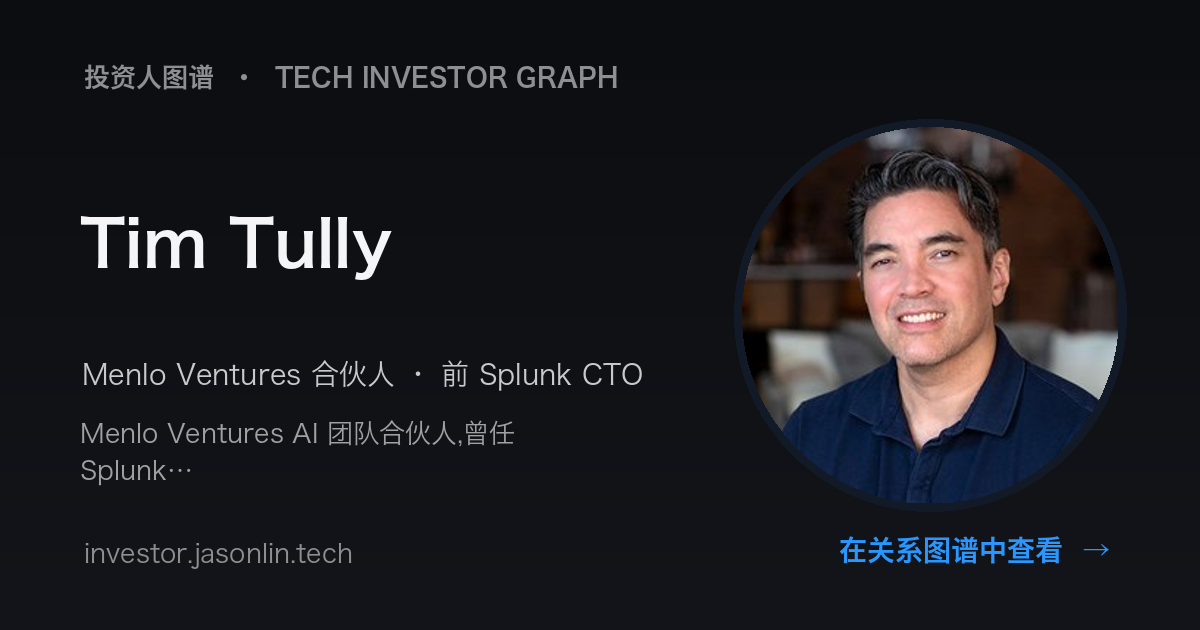
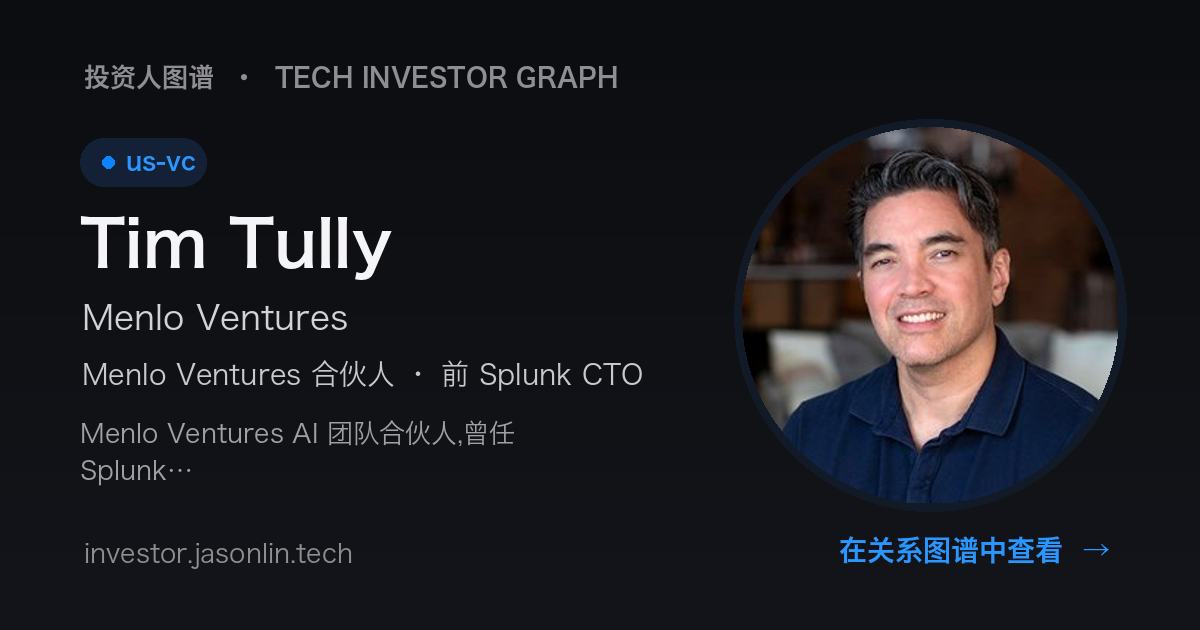
chore: insights-widget v=59;重刷 4 张 org 漏读的分享页
Claude-Session: https://claude.ai/code/session_01J8uaPH9eMgzrHih7Y7Prm5

Changed region(s): [[0.0617, 0.4825, 0.3083, 0.5429], [0.0617, 0.2111, 0.185, 0.3016]]

diff --git a/p/venkyganesan.html b/p/venkyganesan.html
@@ -5,28 +5,28 @@
    深色页面顶上留一条白边(2026-08-15 实测) */
 :root{color-scheme:dark}html{background:#000}</style>
 <script>try{document.documentElement.className=(localStorage.getItem('graphLang')==='en')?'lang-en':'lang-zh'}catch(e){document.documentElement.className='lang-zh'}</script>
-<title>Venky Ganesan ·  | 投资人图谱</title>
+<title>Venky Ganesan · Menlo Ventures | 投资人图谱</title>
 <meta name="description" content="Menlo Ventures 合伙人。Menlo 累计投入 Anthropic 的 10 亿美元,在这家实验室估值逼近 1 万亿之际已值约 140 亿——可以说是本轮 AI 周期最成功的单笔风险投资持仓。2026 年 6 月 Menlo 募集 30 亿美元(Fund XVII + Inflectio…">
 <link rel="canonical" href="https://investor.jasonlin.tech/p/venkyganesan.html">
 <meta property="og:type" content="profile"><meta property="og:url" content="https://investor.jasonlin.tech/p/venkyganesan.html">
-<meta property="og:title" content="Venky Ganesan · ">
+<meta property="og:title" content="Venky Ganesan · Partner at Menlo · The Anthropic Bet">
 <meta property="og:description" content="Menlo Ventures 合伙人。Menlo 累计投入 Anthropic 的 10 亿美元,在这家实验室估值逼近 1 万亿之际已值约 140 亿——可以说是本轮 AI 周期最成功的单笔风险投资持仓。2026 年 6 月 Menlo 募集 30 亿美元(Fund XVII + Inflectio…">
 <meta property="og:site_name" content="投资人图谱"><meta property="og:locale" content="zh_CN">
 <meta property="og:image" content="https://investor.jasonlin.tech/og/venkyganesan.png"><meta property="og:image:width" content="1200"><meta property="og:image:height" content="630">
 <meta name="twitter:card" content="summary_large_image">
 <meta name="twitter:title" content="Venky Ganesan"><meta name="twitter:description" content="Menlo Ventures 合伙人。Menlo 累计投入 Anthropic 的 10 亿美元,在这家实验室估值逼近 1 万亿之际已值约 140 亿——可以说是本轮 AI 周期最成功的单笔风险投资持仓。2026 年 6 月 Menlo 募集 30 亿美元(Fund XVII + Inflectio…">
 <meta name="twitter:image" content="https://investor.jasonlin.tech/og/venkyganesan.png">
-<script type="application/ld+json">{"@context": "https://schema.org", "@type": "ProfilePage", "mainEntity": {"@type": "Person", "name": "Venky Ganesan", "alternateName": "文基·加内桑", "jobTitle": "", "worksFor": {"@type": "Organization", "name": ""}, "description": "Menlo Ventures 合伙人。Menlo 累计投入 Anthropic 的 10 亿美元,在这家实验室估值逼近 1 万亿之际已值约 140 亿——可以说是本轮 AI 周期最成功的单笔风险投资持仓。2026 年 6 月 Menlo 募集 30 亿美元(Fund XVII + Inflectio", "url": "https://investor.jasonlin.tech/p/venkyganesan.html", "image": "https://investor.jasonlin.tech/og/venkyganesan.png"}}</script>
+<script type="application/ld+json">{"@context": "https://schema.org", "@type": "ProfilePage", "mainEntity": {"@type": "Person", "name": "Venky Ganesan", "alternateName": "文基·加内桑", "jobTitle": "Partner at Menlo · The Anthropic Bet", "worksFor": {"@type": "Organization", "name": "Menlo Ventures"}, "description": "Menlo Ventures 合伙人。Menlo 累计投入 Anthropic 的 10 亿美元,在这家实验室估值逼近 1 万亿之际已值约 140 亿——可以说是本轮 AI 周期最成功的单笔风险投资持仓。2026 年 6 月 Menlo 募集 30 亿美元(Fund XVII + Inflectio", "url": "https://investor.jasonlin.tech/p/venkyganesan.html", "image": "https://investor.jasonlin.tech/og/venkyganesan.png"}}</script>
 <style>:root{color-scheme:dark}html{background:#000}</style></head><body>
 <button class="langtoggle" id="langtoggle" type="button" aria-label="切换语言 / Toggle language"><span class="i18n-zh">EN</span><span class="i18n-en">中</span></button>
 <div class="wrap">
 <a class="eyebrow" href="/"><span class="i18n-zh">投资人图谱</span><span class="i18n-en">Tech Investor Graph</span> ↗</a>
 <img class="avatar" src="/assets/people/venkyganesan.jpg" alt="Venky Ganesan" width="108" height="108" loading="eager">
 <h1><span class="i18n-zh">文基·加内桑</span><span class="i18n-en">Venky Ganesan</span></h1>
-<p class="org"></p>
-<p class="role"><span class="i18n-zh">Menlo Ventures 合伙人 · 押上全公司的 Anthropic 赌注</span><span class="i18n-en"></span></p>
-<div class="fields"></div>
-<div class="bio i18n-zh">Menlo Ventures 合伙人。Menlo 累计投入 Anthropic 的 10 亿美元,在这家实验室估值逼近 1 万亿之际已值约 140 亿——可以说是本轮 AI 周期最成功的单笔风险投资持仓。2026 年 6 月 Menlo 募集 30 亿美元(Fund XVII + Inflection IV),是其 50 年历史上最大一次募资,全面押注 AI。Menlo 还与 Anthropic 联合运作 1 亿美元的 Anthology 基金,已种子投资 60 多家前沿 AI 公司。</div><div class="bio i18n-en"></div>
+<p class="org">Menlo Ventures</p>
+<p class="role"><span class="i18n-zh">Menlo Ventures 合伙人 · 押上全公司的 Anthropic 赌注</span><span class="i18n-en">Partner at Menlo · The Anthropic Bet</span></p>
+<div class="fields"><span class="tag">us-vc</span><span class="tag">deeptech</span></div>
+<div class="bio i18n-zh">Menlo Ventures 合伙人。Menlo 累计投入 Anthropic 的 10 亿美元,在这家实验室估值逼近 1 万亿之际已值约 140 亿——可以说是本轮 AI 周期最成功的单笔风险投资持仓。2026 年 6 月 Menlo 募集 30 亿美元(Fund XVII + Inflection IV),是其 50 年历史上最大一次募资,全面押注 AI。Menlo 还与 Anthropic 联合运作 1 亿美元的 Anthology 基金,已种子投资 60 多家前沿 AI 公司。</div><div class="bio i18n-en">Partner at Menlo Ventures, the firm that famously \&quot;bet the firm\&quot; on Anthropic. Menlo&#x27;s cumulative $1B into Anthropic is now worth an estimated $14B as the lab approaches a $1T valuation — arguably the single best venture position of the AI cycle. In June 2026 Menlo raised $3B across Fund XVII and Inflection IV, the largest raise in its 50-year history, going all-in on AI. Menlo also runs the $100M Anthology Fund jointly with Anthropic, seeding 60+ frontier-AI startups.</div>
 <a class="cta" href="/?node=venkyganesan"><span class="i18n-zh">在关系图谱中查看 Venky Ganesan →</span><span class="i18n-en">View Venky Ganesan in the graph →</span></a>
 
 <h2><span class="i18n-zh">时间线</span><span class="i18n-en">Timeline</span></h2><ul></ul>

diff --git a/p/peterfenton.html b/p/peterfenton.html
@@ -5,28 +5,28 @@
    深色页面顶上留一条白边(2026-08-15 实测) */
 :root{color-scheme:dark}html{background:#000}</style>
 <script>try{document.documentElement.className=(localStorage.getItem('graphLang')==='en')?'lang-en':'lang-zh'}catch(e){document.documentElement.className='lang-zh'}</script>
-<title>Peter Fenton ·  | 投资人图谱</title>
+<title>Peter Fenton · Benchmark | 投资人图谱</title>
 <meta name="description" content="Benchmark 任职最久的全职合伙人,退出案例包括 Twitter、Yelp 与 Elastic。AI 周期中他带 Benchmark 投进 Sierra——Bret Taylor 的客服 agent 公司,估值已超 150 亿美元。Benchmark 刻意维持小规模、平权合伙制,不设成长基金、…">
 <link rel="canonical" href="https://investor.jasonlin.tech/p/peterfenton.html">
 <meta property="og:type" content="profile"><meta property="og:url" content="https://investor.jasonlin.tech/p/peterfenton.html">
-<meta property="og:title" content="Peter Fenton · ">
+<meta property="og:title" content="Peter Fenton · General Partner at Benchmark · Longest-Serving Partner">
 <meta property="og:description" content="Benchmark 任职最久的全职合伙人,退出案例包括 Twitter、Yelp 与 Elastic。AI 周期中他带 Benchmark 投进 Sierra——Bret Taylor 的客服 agent 公司,估值已超 150 亿美元。Benchmark 刻意维持小规模、平权合伙制,不设成长基金、…">
 <meta property="og:site_name" content="投资人图谱"><meta property="og:locale" content="zh_CN">
 <meta property="og:image" content="https://investor.jasonlin.tech/og/peterfenton.png"><meta property="og:image:width" content="1200"><meta property="og:image:height" content="630">
 <meta name="twitter:card" content="summary_large_image">
 <meta name="twitter:title" content="Peter Fenton"><meta name="twitter:description" content="Benchmark 任职最久的全职合伙人,退出案例包括 Twitter、Yelp 与 Elastic。AI 周期中他带 Benchmark 投进 Sierra——Bret Taylor 的客服 agent 公司,估值已超 150 亿美元。Benchmark 刻意维持小规模、平权合伙制,不设成长基金、…">
 <meta name="twitter:image" content="https://investor.jasonlin.tech/og/peterfenton.png">
-<script type="application/ld+json">{"@context": "https://schema.org", "@type": "ProfilePage", "mainEntity": {"@type": "Person", "name": "Peter Fenton", "alternateName": "彼得·芬顿", "jobTitle": "", "worksFor": {"@type": "Organization", "name": ""}, "description": "Benchmark 任职最久的全职合伙人,退出案例包括 Twitter、Yelp 与 Elastic。AI 周期中他带 Benchmark 投进 Sierra——Bret Taylor 的客服 agent 公司,估值已超 150 亿美元。Benchmark 刻意维持小规模、平权合伙制,不设成长基金、", "url": "https://investor.jasonlin.tech/p/peterfenton.html", "image": "https://investor.jasonlin.tech/og/peterfenton.png"}}</script>
+<script type="application/ld+json">{"@context": "https://schema.org", "@type": "ProfilePage", "mainEntity": {"@type": "Person", "name": "Peter Fenton", "alternateName": "彼得·芬顿", "jobTitle": "General Partner at Benchmark · Longest-Serving Partner", "worksFor": {"@type": "Organization", "name": "Benchmark"}, "description": "Benchmark 任职最久的全职合伙人,退出案例包括 Twitter、Yelp 与 Elastic。AI 周期中他带 Benchmark 投进 Sierra——Bret Taylor 的客服 agent 公司,估值已超 150 亿美元。Benchmark 刻意维持小规模、平权合伙制,不设成长基金、", "url": "https://investor.jasonlin.tech/p/peterfenton.html", "image": "https://investor.jasonlin.tech/og/peterfenton.png"}}</script>
 <style>:root{color-scheme:dark}html{background:#000}</style></head><body>
 <button class="langtoggle" id="langtoggle" type="button" aria-label="切换语言 / Toggle language"><span class="i18n-zh">EN</span><span class="i18n-en">中</span></button>
 <div class="wrap">
 <a class="eyebrow" href="/"><span class="i18n-zh">投资人图谱</span><span class="i18n-en">Tech Investor Graph</span> ↗</a>
 <img class="avatar" src="/assets/people/peterfenton.jpg" alt="Peter Fenton" width="108" height="108" loading="eager">
 <h1><span class="i18n-zh">彼得·芬顿</span><span class="i18n-en">Peter Fenton</span></h1>
-<p class="org"></p>
-<p class="role"><span class="i18n-zh">Benchmark 普通合伙人 · 任期最长的合伙人</span><span class="i18n-en"></span></p>
-<div class="fields"></div>
-<div class="bio i18n-zh">Benchmark 任职最久的全职合伙人,退出案例包括 Twitter、Yelp 与 Elastic。AI 周期中他带 Benchmark 投进 Sierra——Bret Taylor 的客服 agent 公司,估值已超 150 亿美元。Benchmark 刻意维持小规模、平权合伙制,不设成长基金、不扩张团队,在如今 AI 领域巨型基金林立的格局里尤为醒目。</div><div class="bio i18n-en"></div>
+<p class="org">Benchmark</p>
+<p class="role"><span class="i18n-zh">Benchmark 普通合伙人 · 任期最长的合伙人</span><span class="i18n-en">General Partner at Benchmark · Longest-Serving Partner</span></p>
+<div class="fields"><span class="tag">us-vc</span><span class="tag">early</span></div>
+<div class="bio i18n-zh">Benchmark 任职最久的全职合伙人,退出案例包括 Twitter、Yelp 与 Elastic。AI 周期中他带 Benchmark 投进 Sierra——Bret Taylor 的客服 agent 公司,估值已超 150 亿美元。Benchmark 刻意维持小规模、平权合伙制,不设成长基金、不扩张团队,在如今 AI 领域巨型基金林立的格局里尤为醒目。</div><div class="bio i18n-en">Benchmark&#x27;s longest-serving full-time partner, with exits including Twitter, Yelp and Elastic. In the AI cycle he led Benchmark into Sierra, Bret Taylor&#x27;s customer-service agent company now valued above $15B. Benchmark&#x27;s deliberately small, equal-partnership model — no growth fund, no scale-up — stands out against the mega-funds now dominating AI.</div>
 <a class="cta" href="/?node=peterfenton"><span class="i18n-zh">在关系图谱中查看 Peter Fenton →</span><span class="i18n-en">View Peter Fenton in the graph →</span></a>
 
 <h2><span class="i18n-zh">时间线</span><span class="i18n-en">Timeline</span></h2><ul></ul>

diff --git a/p/mikevolpi.html b/p/mikevolpi.html
@@ -5,28 +5,28 @@
    深色页面顶上留一条白边(2026-08-15 实测) */
 :root{color-scheme:dark}html{background:#000}</style>
 <script>try{document.documentElement.className=(localStorage.getItem('graphLang')==='en')?'lang-en':'lang-zh'}catch(e){document.documentElement.className='lang-zh'}</script>
-<title>Mike Volpi ·  | 投资人图谱</title>
+<title>Mike Volpi · Index Ventures / Hanabi Capital | 投资人图谱</title>
 <meta name="description" content="思科前首席战略官,后加入 Index Ventures,2026 年 Midas List 排名第 55。以基础设施与开源投资著称(Confluent、Elastic、Sonos、Aurora)。2025 年与 Index 同事 Bryan Offutt、Ishani Thakur 共同创立早期基金…">
 <link rel="canonical" href="https://investor.jasonlin.tech/p/mikevolpi.html">
 <meta property="og:type" content="profile"><meta property="og:url" content="https://investor.jasonlin.tech/p/mikevolpi.html">
-<meta property="og:title" content="Mike Volpi · ">
+<meta property="og:title" content="Mike Volpi · Partner at Index · Founder of Hanabi Capital">
 <meta property="og:description" content="思科前首席战略官,后加入 Index Ventures,2026 年 Midas List 排名第 55。以基础设施与开源投资著称(Confluent、Elastic、Sonos、Aurora)。2025 年与 Index 同事 Bryan Offutt、Ishani Thakur 共同创立早期基金…">
 <meta property="og:site_name" content="投资人图谱"><meta property="og:locale" content="zh_CN">
 <meta property="og:image" content="https://investor.jasonlin.tech/og/mikevolpi.png"><meta property="og:image:width" content="1200"><meta property="og:image:height" content="630">
 <meta name="twitter:card" content="summary_large_image">
 <meta name="twitter:title" content="Mike Volpi"><meta name="twitter:description" content="思科前首席战略官,后加入 Index Ventures,2026 年 Midas List 排名第 55。以基础设施与开源投资著称(Confluent、Elastic、Sonos、Aurora)。2025 年与 Index 同事 Bryan Offutt、Ishani Thakur 共同创立早期基金…">
 <meta name="twitter:image" content="https://investor.jasonlin.tech/og/mikevolpi.png">
-<script type="application/ld+json">{"@context": "https://schema.org", "@type": "ProfilePage", "mainEntity": {"@type": "Person", "name": "Mike Volpi", "alternateName": "迈克·沃尔皮", "jobTitle": "", "worksFor": {"@type": "Organization", "name": ""}, "description": "思科前首席战略官,后加入 Index Ventures,2026 年 Midas List 排名第 55。以基础设施与开源投资著称(Confluent、Elastic、Sonos、Aurora)。2025 年与 Index 同事 Bryan Offutt、Ishani Thakur 共同创立早期基金", "url": "https://investor.jasonlin.tech/p/mikevolpi.html", "image": "https://investor.jasonlin.tech/og/mikevolpi.png"}}</script>
+<script type="application/ld+json">{"@context": "https://schema.org", "@type": "ProfilePage", "mainEntity": {"@type": "Person", "name": "Mike Volpi", "alternateName": "迈克·沃尔皮", "jobTitle": "Partner at Index · Founder of Hanabi Capital", "worksFor": {"@type": "Organization", "name": "Index Ventures / Hanabi Capital"}, "description": "思科前首席战略官,后加入 Index Ventures,2026 年 Midas List 排名第 55。以基础设施与开源投资著称(Confluent、Elastic、Sonos、Aurora)。2025 年与 Index 同事 Bryan Offutt、Ishani Thakur 共同创立早期基金", "url": "https://investor.jasonlin.tech/p/mikevolpi.html", "image": "https://investor.jasonlin.tech/og/mikevolpi.png"}}</script>
 <style>:root{color-scheme:dark}html{background:#000}</style></head><body>
 <button class="langtoggle" id="langtoggle" type="button" aria-label="切换语言 / Toggle language"><span class="i18n-zh">EN</span><span class="i18n-en">中</span></button>
 <div class="wrap">
 <a class="eyebrow" href="/"><span class="i18n-zh">投资人图谱</span><span class="i18n-en">Tech Investor Graph</span> ↗</a>
 <img class="avatar" src="/assets/people/mikevolpi.jpg" alt="Mike Volpi" width="108" height="108" loading="eager">
 <h1><span class="i18n-zh">迈克·沃尔皮</span><span class="i18n-en">Mike Volpi</span></h1>
-<p class="org"></p>
-<p class="role"><span class="i18n-zh">Index Ventures 合伙人 · Hanabi Capital 创始人</span><span class="i18n-en"></span></p>
-<div class="fields"></div>
-<div class="bio i18n-zh">思科前首席战略官,后加入 Index Ventures,2026 年 Midas List 排名第 55。以基础设施与开源投资著称(Confluent、Elastic、Sonos、Aurora)。2025 年与 Index 同事 Bryan Offutt、Ishani Thakur 共同创立早期基金 Hanabi Capital,专注 AI 与软件基础设施,同时仍任 Index 合伙人管理原有组合。</div><div class="bio i18n-en"></div>
+<p class="org">Index Ventures / Hanabi Capital</p>
+<p class="role"><span class="i18n-zh">Index Ventures 合伙人 · Hanabi Capital 创始人</span><span class="i18n-en">Partner at Index · Founder of Hanabi Capital</span></p>
+<div class="fields"><span class="tag">us-vc</span><span class="tag">deeptech</span><span class="tag">founder-vc</span></div>
+<div class="bio i18n-zh">思科前首席战略官,后加入 Index Ventures,2026 年 Midas List 排名第 55。以基础设施与开源投资著称(Confluent、Elastic、Sonos、Aurora)。2025 年与 Index 同事 Bryan Offutt、Ishani Thakur 共同创立早期基金 Hanabi Capital,专注 AI 与软件基础设施,同时仍任 Index 合伙人管理原有组合。</div><div class="bio i18n-en">Former Cisco chief strategy officer turned Index Ventures partner, ranked #55 on the 2026 Midas List. Known for infrastructure and open-source bets (Confluent, Elastic, Sonos, Aurora). In 2025 he launched Hanabi Capital with Index colleagues Bryan Offutt and Ishani Thakur, an early-stage fund focused on AI and software infrastructure, while remaining an Index partner overseeing his existing portfolio.</div>
 <a class="cta" href="/?node=mikevolpi"><span class="i18n-zh">在关系图谱中查看 Mike Volpi →</span><span class="i18n-en">View Mike Volpi in the graph →</span></a>
 
 <h2><span class="i18n-zh">时间线</span><span class="i18n-en">Timeline</span></h2><ul></ul>

diff --git a/p/timtully.html b/p/timtully.html
@@ -5,28 +5,28 @@
    深色页面顶上留一条白边(2026-08-15 实测) */
 :root{color-scheme:dark}html{background:#000}</style>
 <script>try{document.documentElement.className=(localStorage.getItem('graphLang')==='en')?'lang-en':'lang-zh'}catch(e){document.documentElement.className='lang-zh'}</script>
-<title>Tim Tully ·  | 投资人图谱</title>
+<title>Tim Tully · Menlo Ventures | 投资人图谱</title>
 <meta name="description" content="Menlo Ventures AI 团队合伙人,曾任 Splunk 首席技术官,带来数据基础设施领域的实操经验。他是 Menlo 与 Anthropic 联合运作的 1 亿美元 Anthology 种子基金背后的核心投资人之一,该基金已投出 60 多家前沿 AI 公司、实现三笔退出。…">
 <link rel="canonical" href="https://investor.jasonlin.tech/p/timtully.html">
 <meta property="og:type" content="profile"><meta property="og:url" content="https://investor.jasonlin.tech/p/timtully.html">
-<meta property="og:title" content="Tim Tully · ">
+<meta property="og:title" content="Tim Tully · Partner at Menlo · Ex-CTO of Splunk">
 <meta property="og:description" content="Menlo Ventures AI 团队合伙人,曾任 Splunk 首席技术官,带来数据基础设施领域的实操经验。他是 Menlo 与 Anthropic 联合运作的 1 亿美元 Anthology 种子基金背后的核心投资人之一,该基金已投出 60 多家前沿 AI 公司、实现三笔退出。…">
 <meta property="og:site_name" content="投资人图谱"><meta property="og:locale" content="zh_CN">
 <meta property="og:image" content="https://investor.jasonlin.tech/og/timtully.png"><meta property="og:image:width" content="1200"><meta property="og:image:height" content="630">
 <meta name="twitter:card" content="summary_large_image">
 <meta name="twitter:title" content="Tim Tully"><meta name="twitter:description" content="Menlo Ventures AI 团队合伙人,曾任 Splunk 首席技术官,带来数据基础设施领域的实操经验。他是 Menlo 与 Anthropic 联合运作的 1 亿美元 Anthology 种子基金背后的核心投资人之一,该基金已投出 60 多家前沿 AI 公司、实现三笔退出。…">
 <meta name="twitter:image" content="https://investor.jasonlin.tech/og/timtully.png">
-<script type="application/ld+json">{"@context": "https://schema.org", "@type": "ProfilePage", "mainEntity": {"@type": "Person", "name": "Tim Tully", "alternateName": "蒂姆·塔利", "jobTitle": "", "worksFor": {"@type": "Organization", "name": ""}, "description": "Menlo Ventures AI 团队合伙人,曾任 Splunk 首席技术官,带来数据基础设施领域的实操经验。他是 Menlo 与 Anthropic 联合运作的 1 亿美元 Anthology 种子基金背后的核心投资人之一,该基金已投出 60 多家前沿 AI 公司、实现三笔退出。", "url": "https://investor.jasonlin.tech/p/timtully.html", "image": "https://investor.jasonlin.tech/og/timtully.png"}}</script>
+<script type="application/ld+json">{"@context": "https://schema.org", "@type": "ProfilePage", "mainEntity": {"@type": "Person", "name": "Tim Tully", "alternateName": "蒂姆·塔利", "jobTitle": "Partner at Menlo · Ex-CTO of Splunk", "worksFor": {"@type": "Organization", "name": "Menlo Ventures"}, "description": "Menlo Ventures AI 团队合伙人,曾任 Splunk 首席技术官,带来数据基础设施领域的实操经验。他是 Menlo 与 Anthropic 联合运作的 1 亿美元 Anthology 种子基金背后的核心投资人之一,该基金已投出 60 多家前沿 AI 公司、实现三笔退出。", "url": "https://investor.jasonlin.tech/p/timtully.html", "image": "https://investor.jasonlin.tech/og/timtully.png"}}</script>
 <style>:root{color-scheme:dark}html{background:#000}</style></head><body>
 <button class="langtoggle" id="langtoggle" type="button" aria-label="切换语言 / Toggle language"><span class="i18n-zh">EN</span><span class="i18n-en">中</span></button>
 <div class="wrap">
 <a class="eyebrow" href="/"><span class="i18n-zh">投资人图谱</span><span class="i18n-en">Tech Investor Graph</span> ↗</a>
 <img class="avatar" src="/assets/people/timtully.jpg" alt="Tim Tully" width="108" height="108" loading="eager">
 <h1><span class="i18n-zh">蒂姆·塔利</span><span class="i18n-en">Tim Tully</span></h1>
-<p class="org"></p>
-<p class="role"><span class="i18n-zh">Menlo Ventures 合伙人 · 前 Splunk CTO</span><span class="i18n-en"></span></p>
-<div class="fields"></div>
-<div class="bio i18n-zh">Menlo Ventures AI 团队合伙人,曾任 Splunk 首席技术官,带来数据基础设施领域的实操经验。他是 Menlo 与 Anthropic 联合运作的 1 亿美元 Anthology 种子基金背后的核心投资人之一,该基金已投出 60 多家前沿 AI 公司、实现三笔退出。</div><div class="bio i18n-en"></div>
+<p class="org">Menlo Ventures</p>
+<p class="role"><span class="i18n-zh">Menlo Ventures 合伙人 · 前 Splunk CTO</span><span class="i18n-en">Partner at Menlo · Ex-CTO of Splunk</span></p>
+<div class="fields"><span class="tag">us-vc</span><span class="tag">deeptech</span><span class="tag">founder-vc</span></div>
+<div class="bio i18n-zh">Menlo Ventures AI 团队合伙人,曾任 Splunk 首席技术官,带来数据基础设施领域的实操经验。他是 Menlo 与 Anthropic 联合运作的 1 亿美元 Anthology 种子基金背后的核心投资人之一,该基金已投出 60 多家前沿 AI 公司、实现三笔退出。</div><div class="bio i18n-en">Partner on Menlo Ventures&#x27; AI team and former CTO of Splunk, bringing operator depth in data infrastructure. He is one of the expert investors behind the Menlo Anthology Fund, the $100M seed vehicle run jointly with Anthropic that has backed 60+ frontier-AI startups with three exits so far.</div>
 <a class="cta" href="/?node=timtully"><span class="i18n-zh">在关系图谱中查看 Tim Tully →</span><span class="i18n-en">View Tim Tully in the graph →</span></a>
 
 <h2><span class="i18n-zh">时间线</span><span class="i18n-en">Timeline</span></h2><ul></ul>

diff --git a/index.html b/index.html
@@ -1165,7 +1165,7 @@ body.no-insights #graph-container {
 
 <!-- Insights Section (rendered by insights-widget.js) -->
 <section id="insights-section" data-graph="investor"></section>
-<script src="https://hardware.jasonlin.tech/insights-widget.js?v=58" defer></script>
+<script src="https://hardware.jasonlin.tech/insights-widget.js?v=59" defer></script>
 
 <script>
 // ===================================================================
